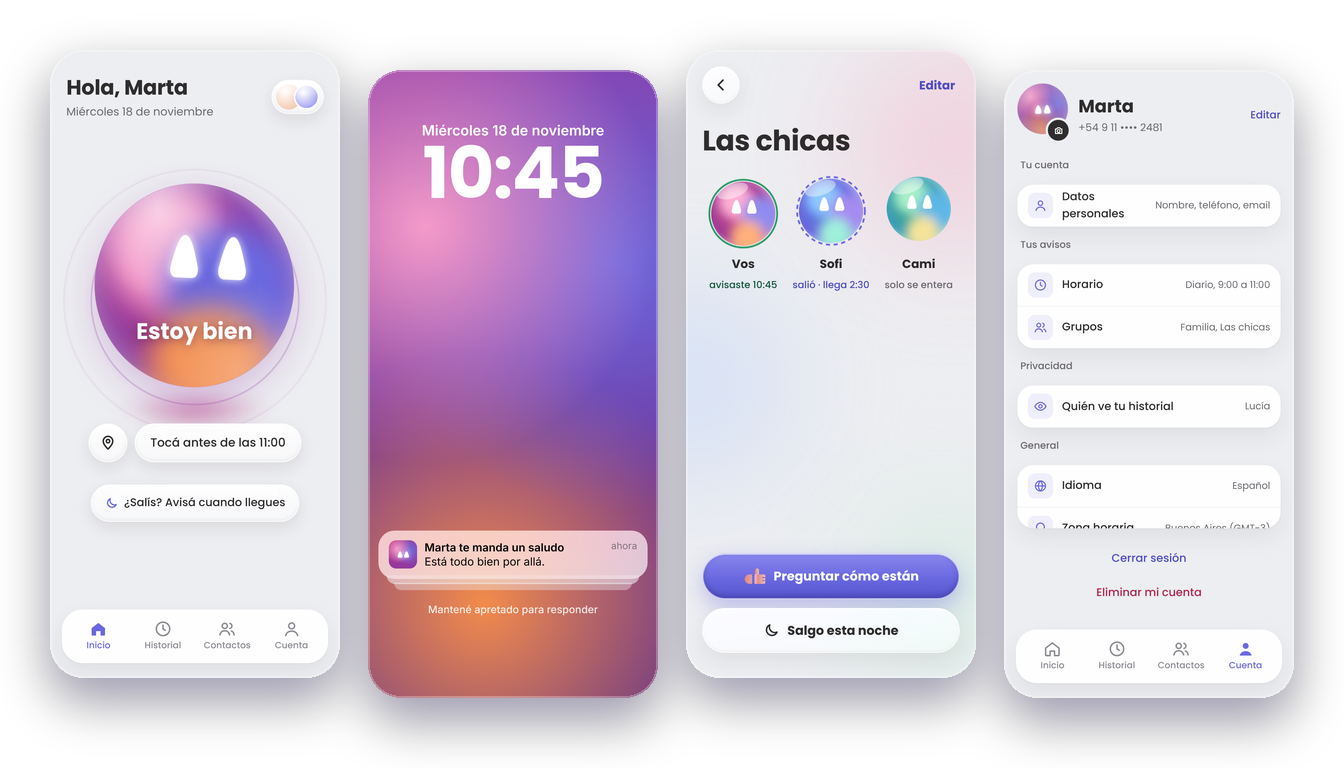
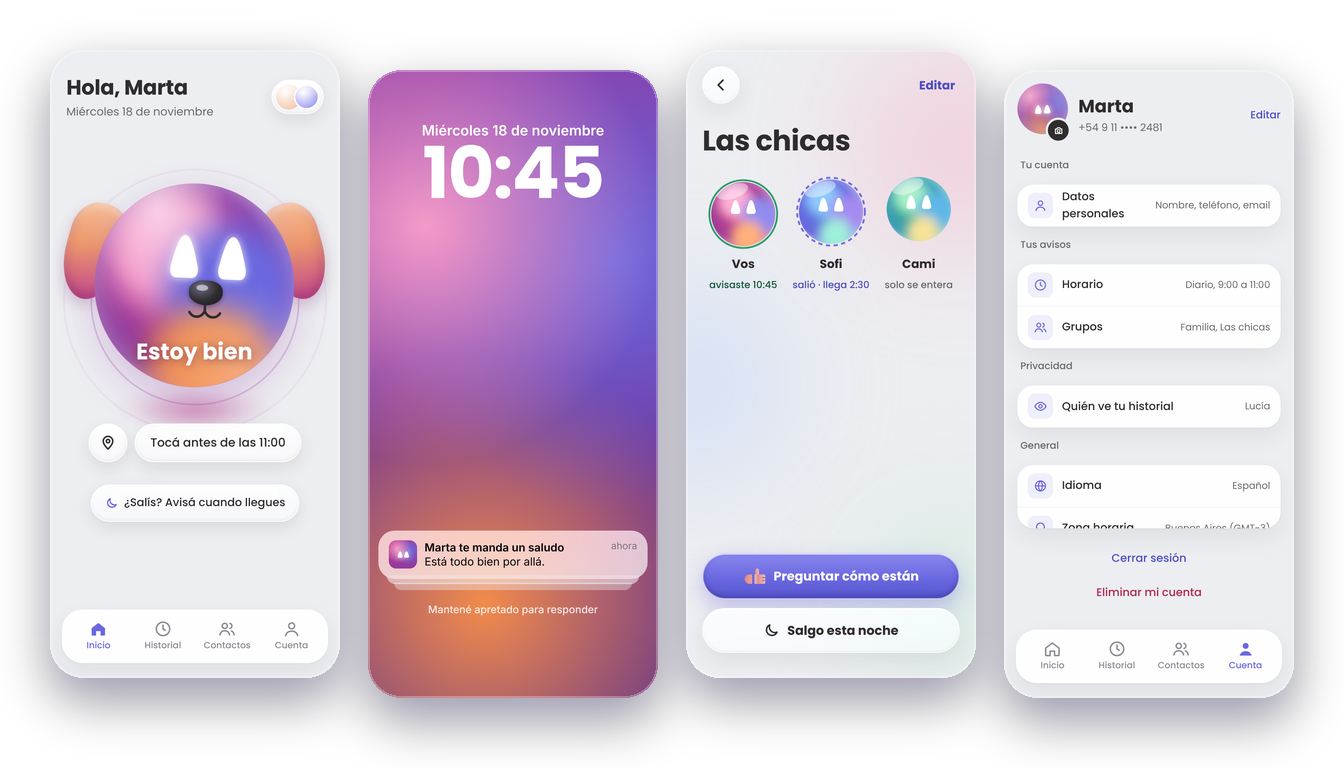
Update Oli screenshots (puppy mascot)
Claude-Session: https://claude.ai/code/session_011pLkqSnqrfrobVpnCNxyr5

diff --git a/README.md b/README.md
@@ -44,7 +44,7 @@ I'm a co-founder of [CYTO](https://appcyto.com), a platform that takes the paper
 
 ## Also building: Oli
 
-> *Holi, soy Oli.* Tell your people you're okay with one tap.
+> *Holi, soy Oli.* A little puppy that tells your people you're okay with one tap.
 
 Oli is for anyone who wants the people they love to stop worrying: family, friends, long-distance partners, travellers, someone getting home late at night.
 
